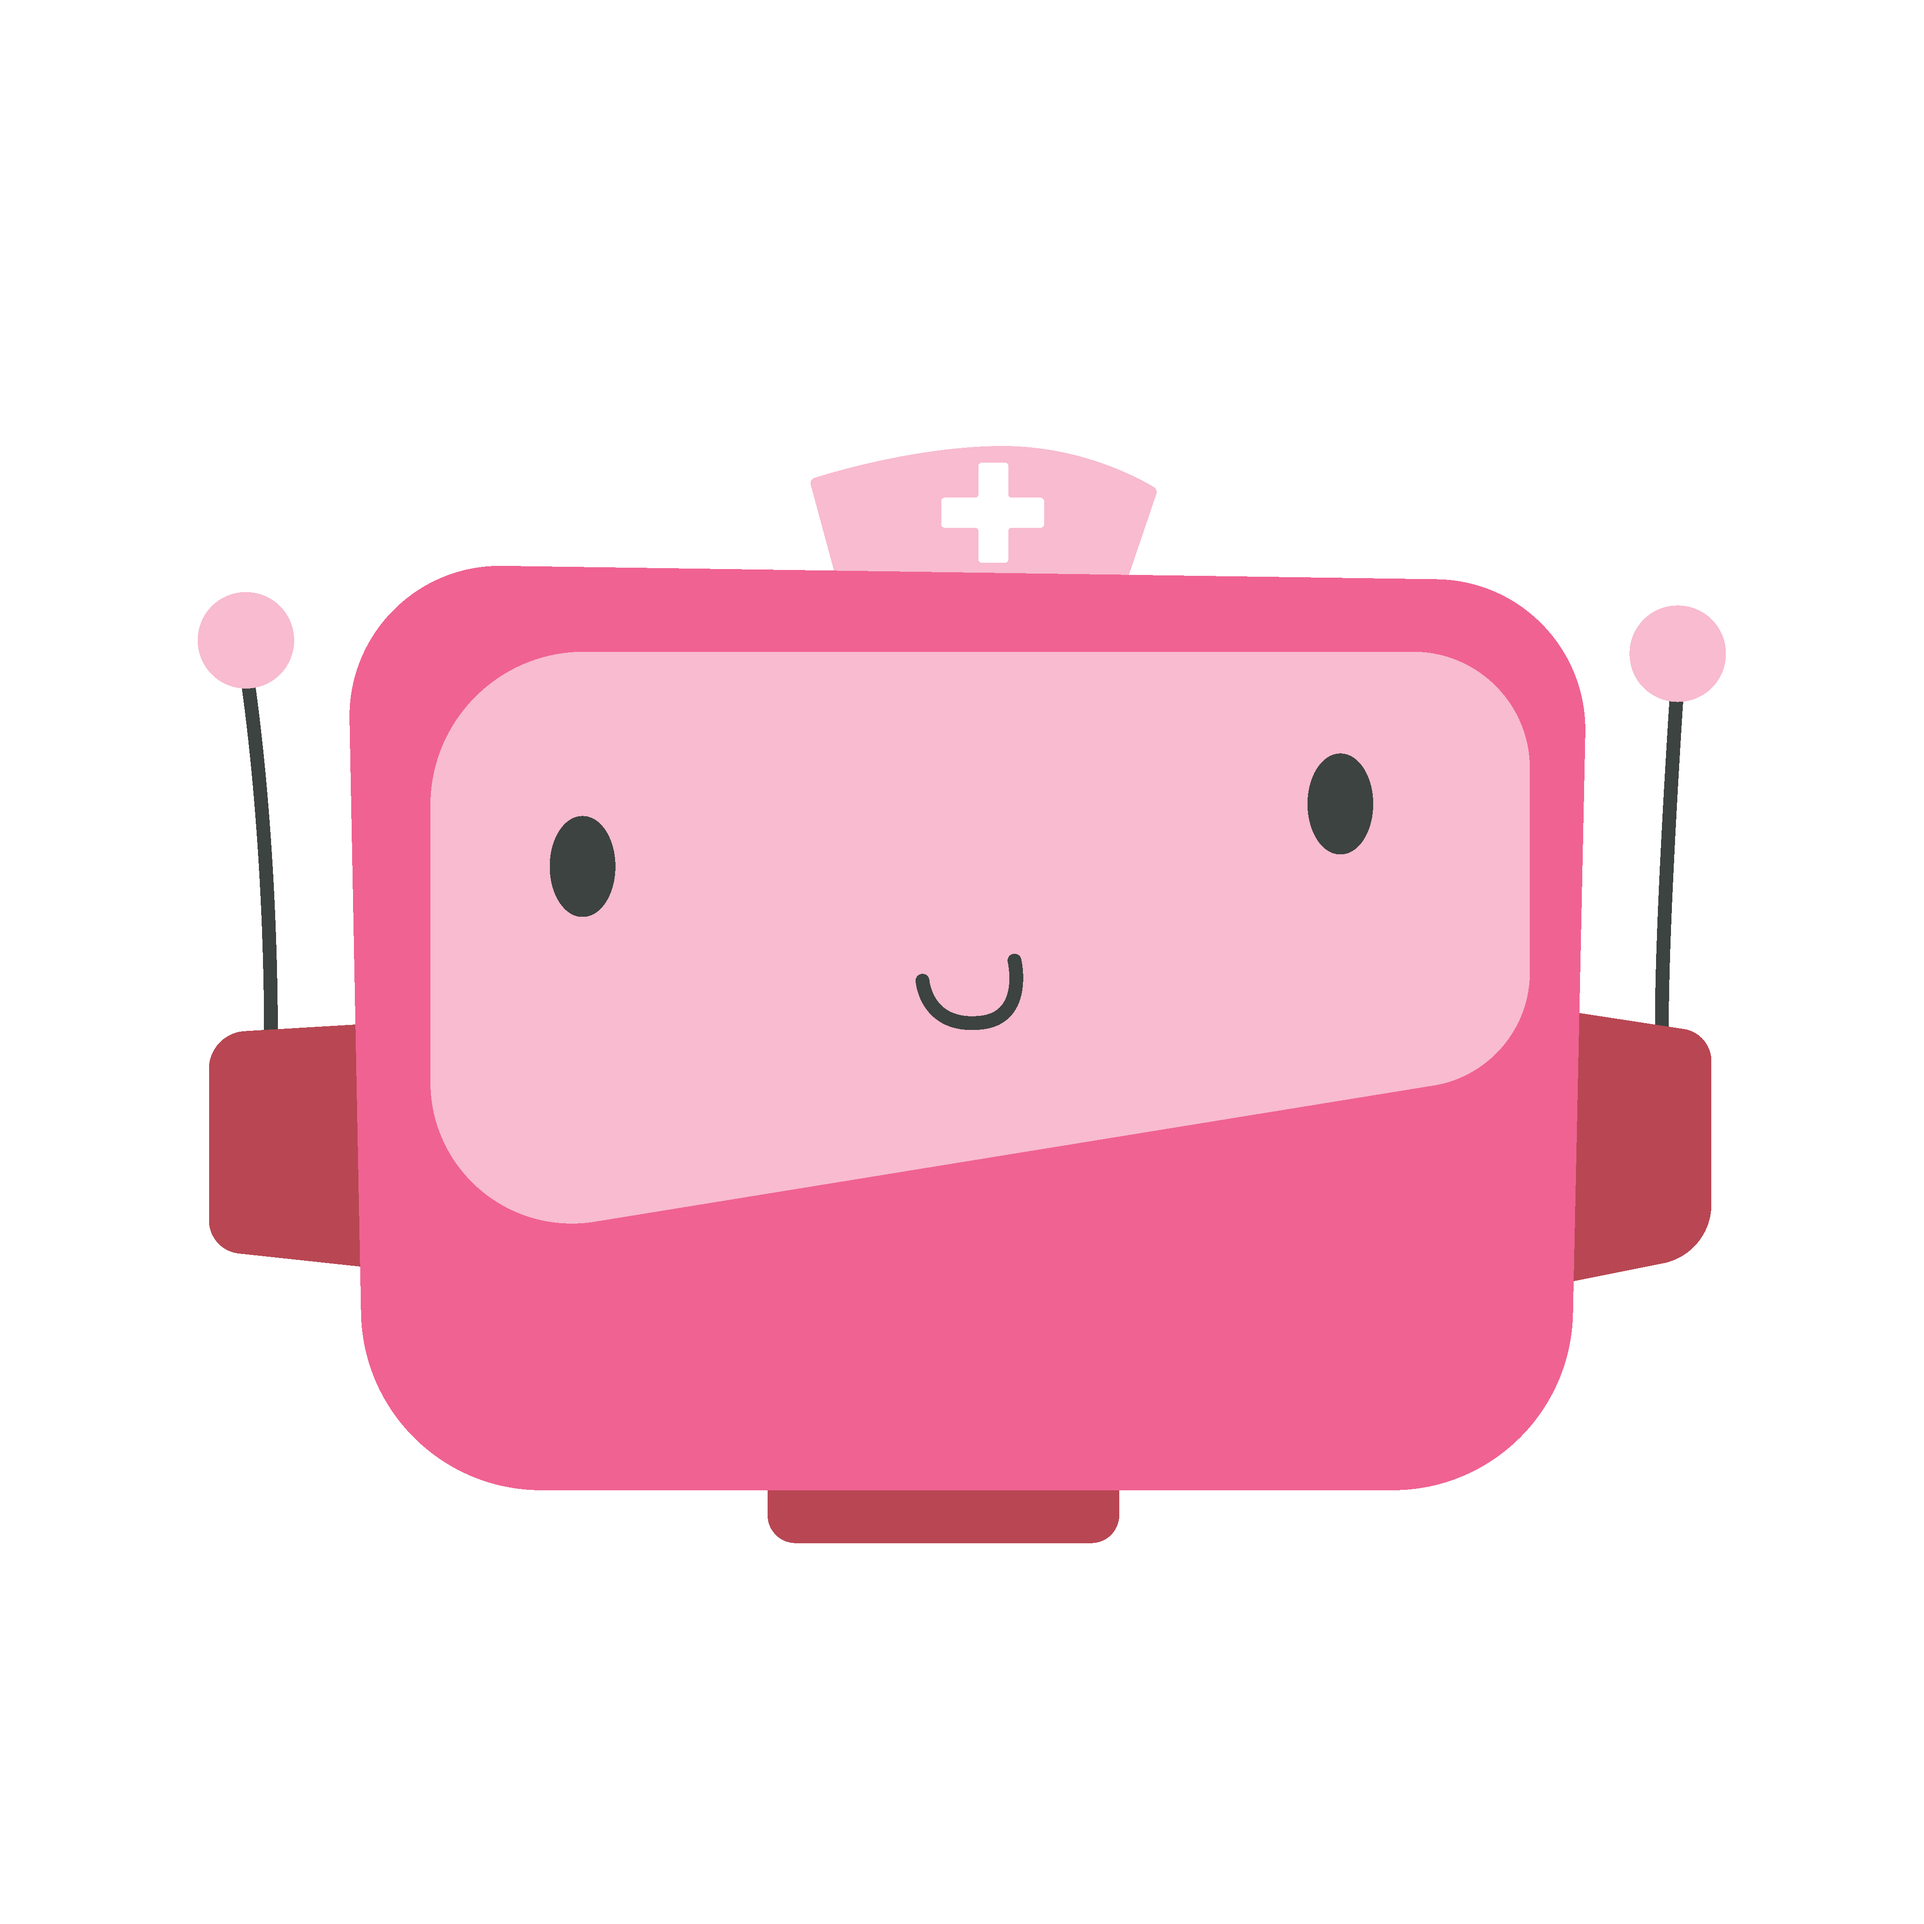
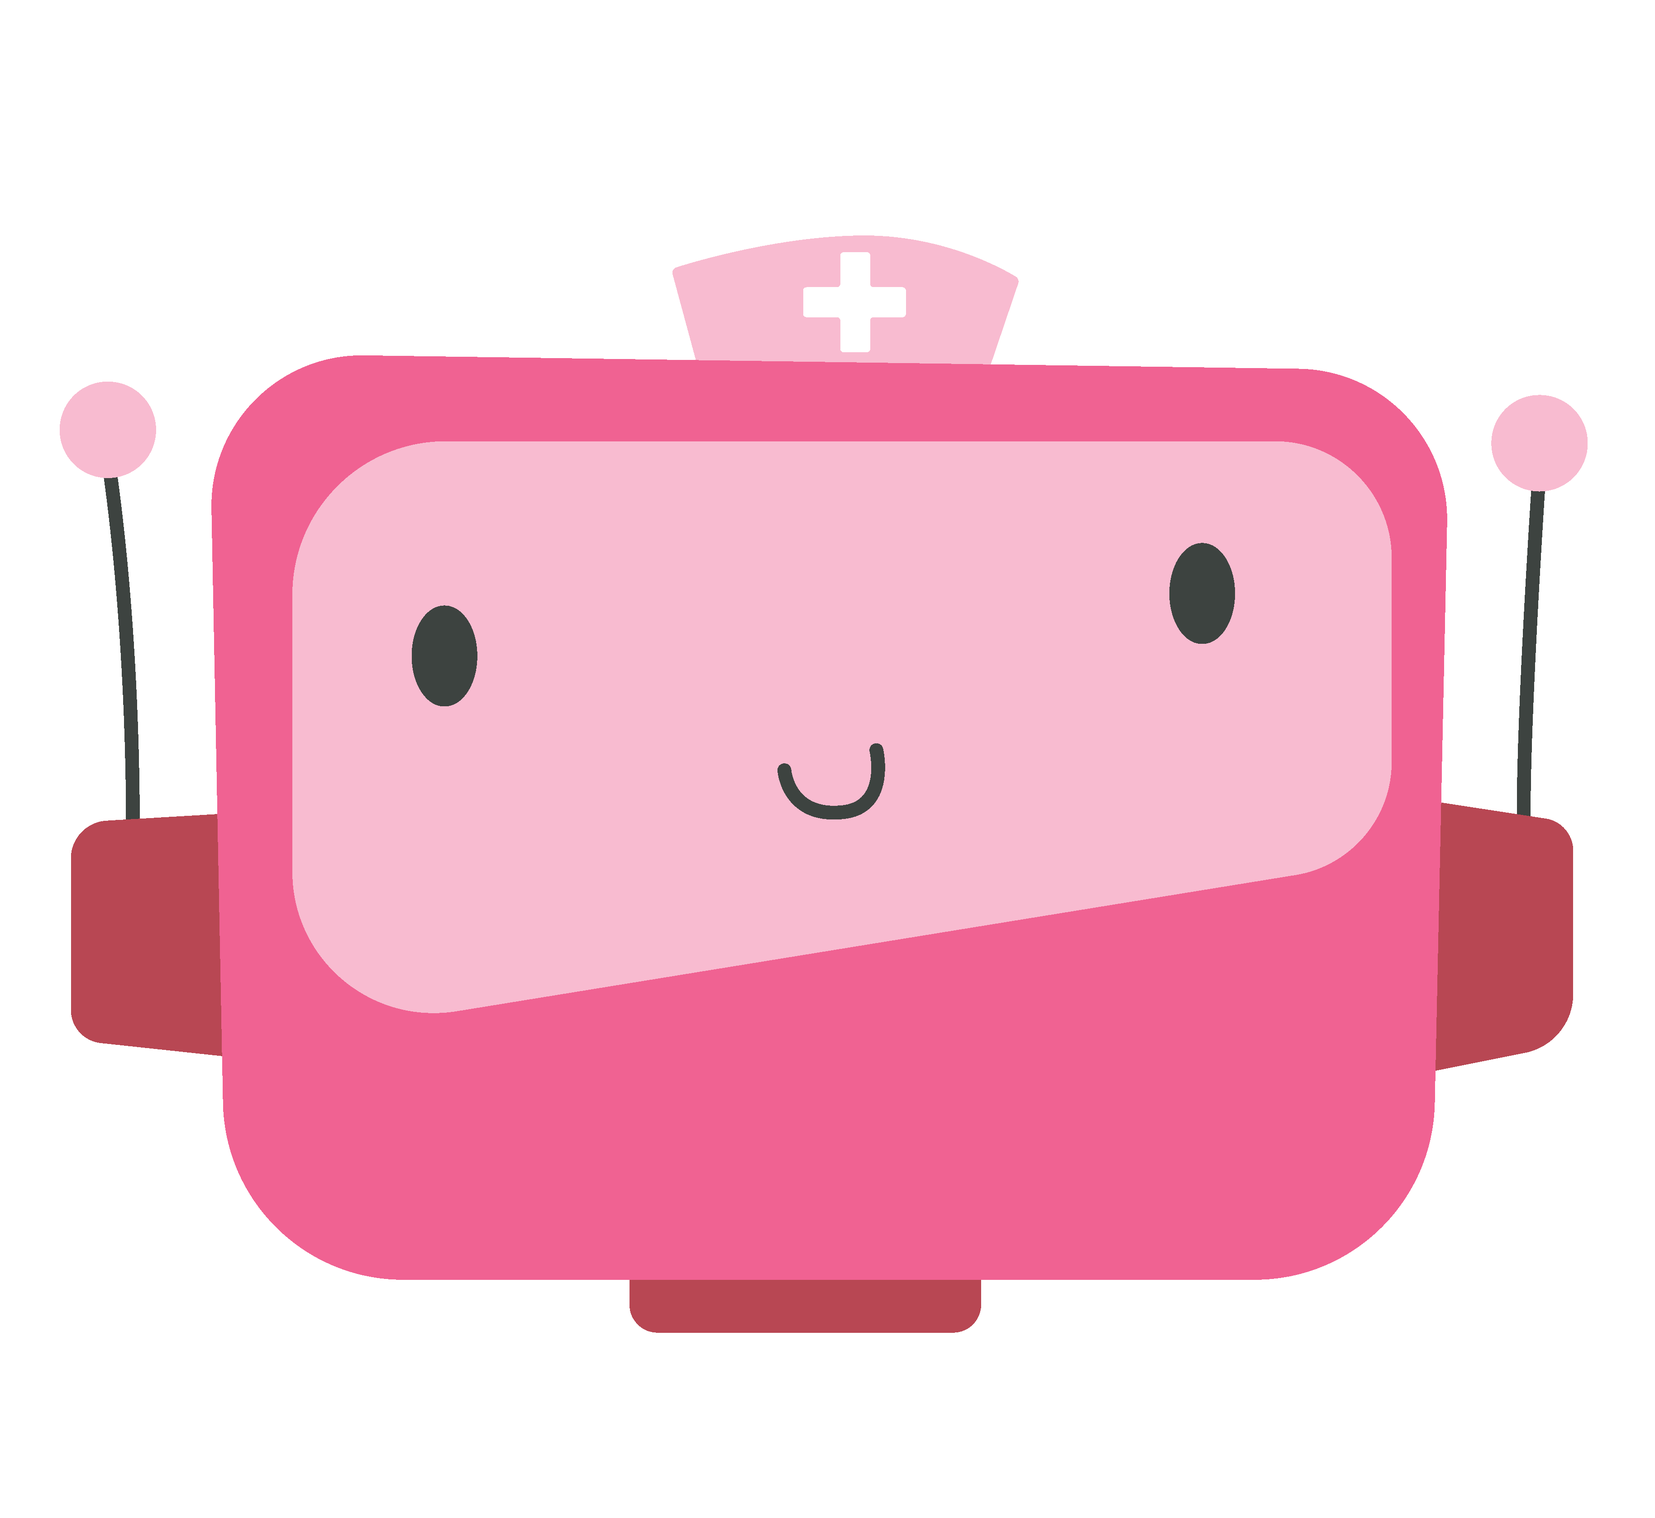
Added Background

Changed region(s): [[0.0312, 0.1551, 0.9664, 0.8995], [0.4676, 0.4963, 0.5299, 0.5583]]

diff --git a/application-interface/templates/index.html b/application-interface/templates/index.html
@@ -17,14 +17,14 @@
     <script src="{{ url_for('static', filename='script.js') }}"></script>
 
     <nav>
-      <div class="white nav-wrapper">
+      <div class="white nav-wrapper z-depth-2">
         <a href="#" class="pink-text text-accent-1 brand-logo">SanoBot</a>
         <ul id="nav-mobile" class="right hide-on-med-and-down">
         </ul>
       </div>
     </nav>
 
-    <div class="row">
+    <div class="row" style='background-image: url("{{ url_for('static', filename='BlueBackground.jpg') }}"); background-size: cover; background-position: center;'>
         <div class="col s12 m8 offset-m2 l6 offset-l3">
           <div id="chatarea" class="z-depth-2">
             <div id="chatbox">

diff --git a/application-interface/static/styles.css b/application-interface/static/styles.css
@@ -1,4 +1,5 @@
 #chatarea {
+  background-color: white;
   width: 100%;
   height: 90vh;
   display: flex;

diff --git a/application-interface/main.py b/application-interface/main.py
@@ -1,7 +1,6 @@
 from flask import Flask, request, render_template
 import os
 import dialogflow
-import json
 from google.api_core.exceptions import InvalidArgument
 
 #add bot credentials
